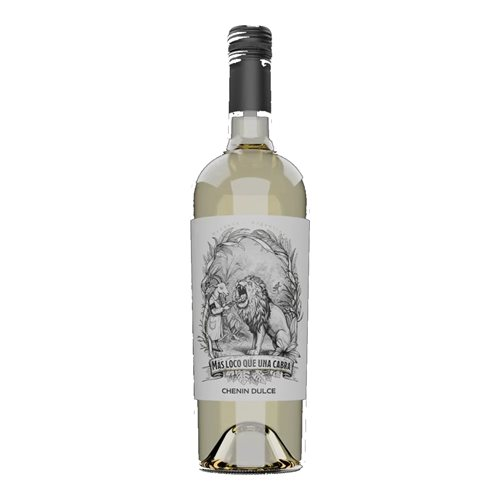
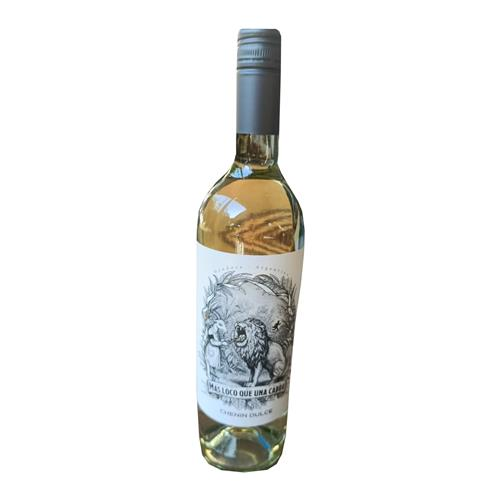
Foto nueva del Mas Loco Chenin Dulce

Changed region(s): [[0.36, 0.03, 0.63, 0.96]]

diff --git a/index.html b/index.html
@@ -411,7 +411,7 @@ const BEBIDAS = [
 ];
 // productos que tambien se venden sueltos por unidad; el resto solo por bulto (pedido de Bruno, 31/10/2026)
 const SUELTOS = /skyy|hormiga negra|otro loco m.s|olivaria|col.n selecto|m.s loco que una cabra|santa julia|cosecha tard|federico de alvear|new style|fernet (branca|1882 750)|corona botella 710|gin merle|smirnoff botella|gancia americano|licor de mel|whisky|caf. al co/i;
-const FOTOS_V = '3';   // cambiar cuando se reemplazan las fotos
+const FOTOS_V = '4';   // cambiar cuando se reemplazan las fotos
 const fmt = new Intl.NumberFormat('es-AR',{style:'currency',currency:'ARS',minimumFractionDigits:0,maximumFractionDigits:0});
 const esc = s => String(s).replace(/[&<>"]/g, c => ({'&':'&amp;','<':'&lt;','>':'&gt;','"':'&quot;'}[c]));
 const norm = s => String(s).normalize('NFD').replace(/[̀-ͯ]/g,'').toLowerCase();
